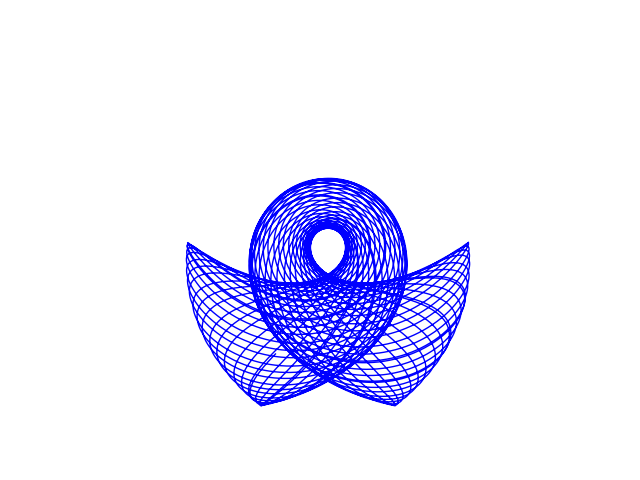
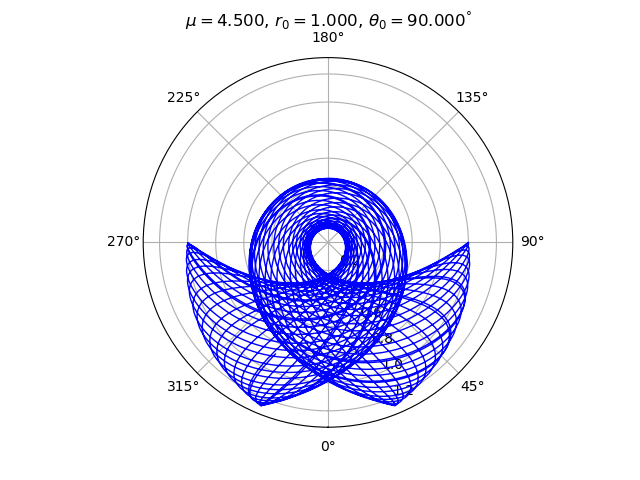
New plot

diff --git a/python/redditSimulation.py b/python/redditSimulation.py
@@ -70,9 +70,9 @@ def simulate(ratio):
     ax = plt.subplot(111, projection='polar')
     ax.set_theta_zero_location("S")
     ax.plot(variables[:,2], variables[:,0], color='b', linewidth=1)
-    # plt.title('$SAM$ for $\mu = %.3f$, $r_0 = %.3f$, $\\theta_0 = %.3f^\degree$, $t_{max} = %.2f$' % (mu, r0, theta0 * 180 / pi, maxtime), y = 1.06)
-    ax.grid(True)
+    plt.title('$\mu = %.3f$, $r_0 = %.3f$, $\\theta_0 = %.3f^\degree$' % (mu, r0, -theta0 * 180 / pi), y = 1.06)
     plt.axis('off')
+    ax.grid(True)
     if(flag == False):
         print('Calculation was successful for mu = %.3f.' % mu)
         savePath = os.getcwd() + r'\images\mu' + str(int(ratio)) + '.png'
